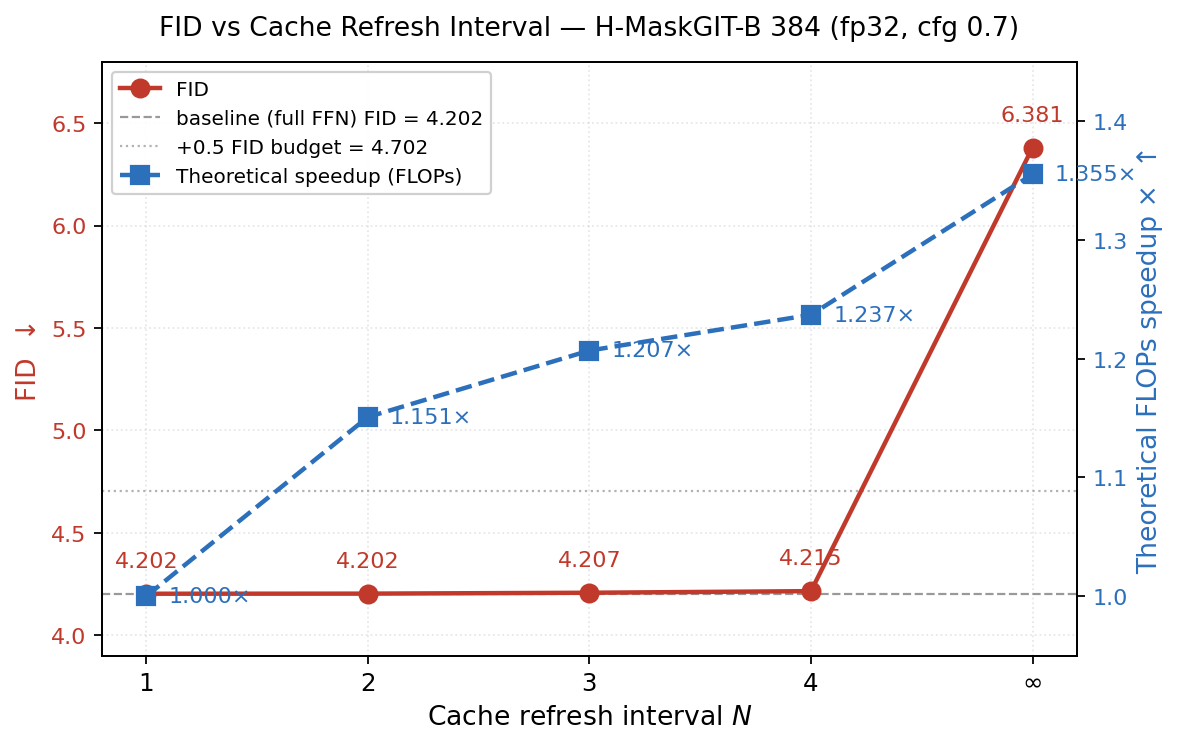
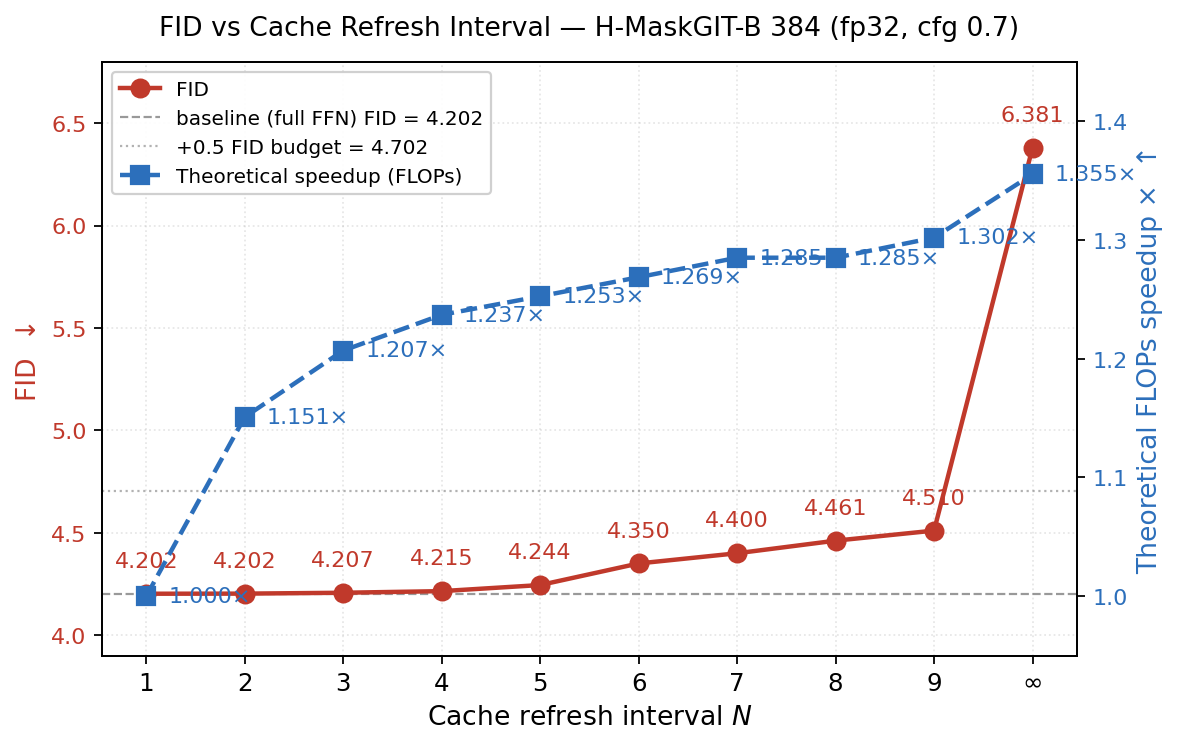
扩展 base-384 cfg=0.7 cache-refresh sweep 至 N=9
- results: 追加 N5~N9 的 FID/IS 评测结果（FID 4.24~4.51，
  refresh 比例从 23% 降到 12%）
- plot_sweep_base.py: 横轴扩展为 N=1..9 加 ∞，重写 SPEEDUP/
  REFRESH_N 为列表推导，打印更紧凑
- 更新 sweep_fid_vs_speedup_base.png 对比图
- 新增 launch 脚本：
  - run_base384_cfg07_sweep_N7toN9.sh：base-384 N7~N9 串行 sweep
  - run_large384_sweep_N5N6N8.sh：large-384 N5/N6/N8 sweep
  - eval_fid_large384_partialupdate_N{5,6,8}.sh：large-384 单点评测

diff --git a/plot_sweep_base.py b/plot_sweep_base.py
@@ -14,9 +14,10 @@ import matplotlib.pyplot as plt
 # --- FID data (from results/halton_base384_cfg07_partialupdate_sweep.txt) ---
 # N=1 is the left-anchor point: every gated step refreshes, so it is
 # numerically equivalent to the full-update baseline (FID 4.202, speedup 1.000×).
-N_LABELS = ['1', '2', '3', '4', '∞']
-X        = [0, 1, 2, 3, 4]              # equal spacing on x-axis
-FID      = [4.202, 4.2025, 4.2068, 4.2147, 6.3808]
+N_LABELS = ['1', '2', '3', '4', '5', '6', '7', '8', '9', '∞']
+X        = list(range(10))              # equal spacing on x-axis
+FID      = [4.202, 4.2025, 4.2068, 4.2147, 4.2444,
+            4.3499, 4.3997, 4.4612, 4.5104, 6.3808]
 
 # --- theoretical FLOPs / speedup model ---
 # Per-block FLOP breakdown (Base model, d=768, seq=576):
@@ -55,16 +56,11 @@ def theoretical_speedup(refresh_n):
     return baseline_cost / cost
 
 
-SPEEDUP = [
-    theoretical_speedup(1),    # baseline equivalent
-    theoretical_speedup(2),
-    theoretical_speedup(3),
-    theoretical_speedup(4),
-    theoretical_speedup(0),    # ∞
-]
-print(f'theoretical speedups: '
-      f'N=1 {SPEEDUP[0]:.3f}×  N=2 {SPEEDUP[1]:.3f}×  '
-      f'N=3 {SPEEDUP[2]:.3f}×  N=4 {SPEEDUP[3]:.3f}×  N=∞ {SPEEDUP[4]:.3f}×')
+# refresh interval per point: N=1..9 then 0 (=∞, never refresh)
+REFRESH_N = [1, 2, 3, 4, 5, 6, 7, 8, 9, 0]
+SPEEDUP   = [theoretical_speedup(n) for n in REFRESH_N]
+for lbl, spd in zip(N_LABELS, SPEEDUP):
+    print(f'  N={lbl:>2}  speedup {spd:.3f}×')
 
 BASELINE_FID     = 4.202
 BASELINE_LABEL   = f'baseline (full FFN) FID = {BASELINE_FID:.3f}'
